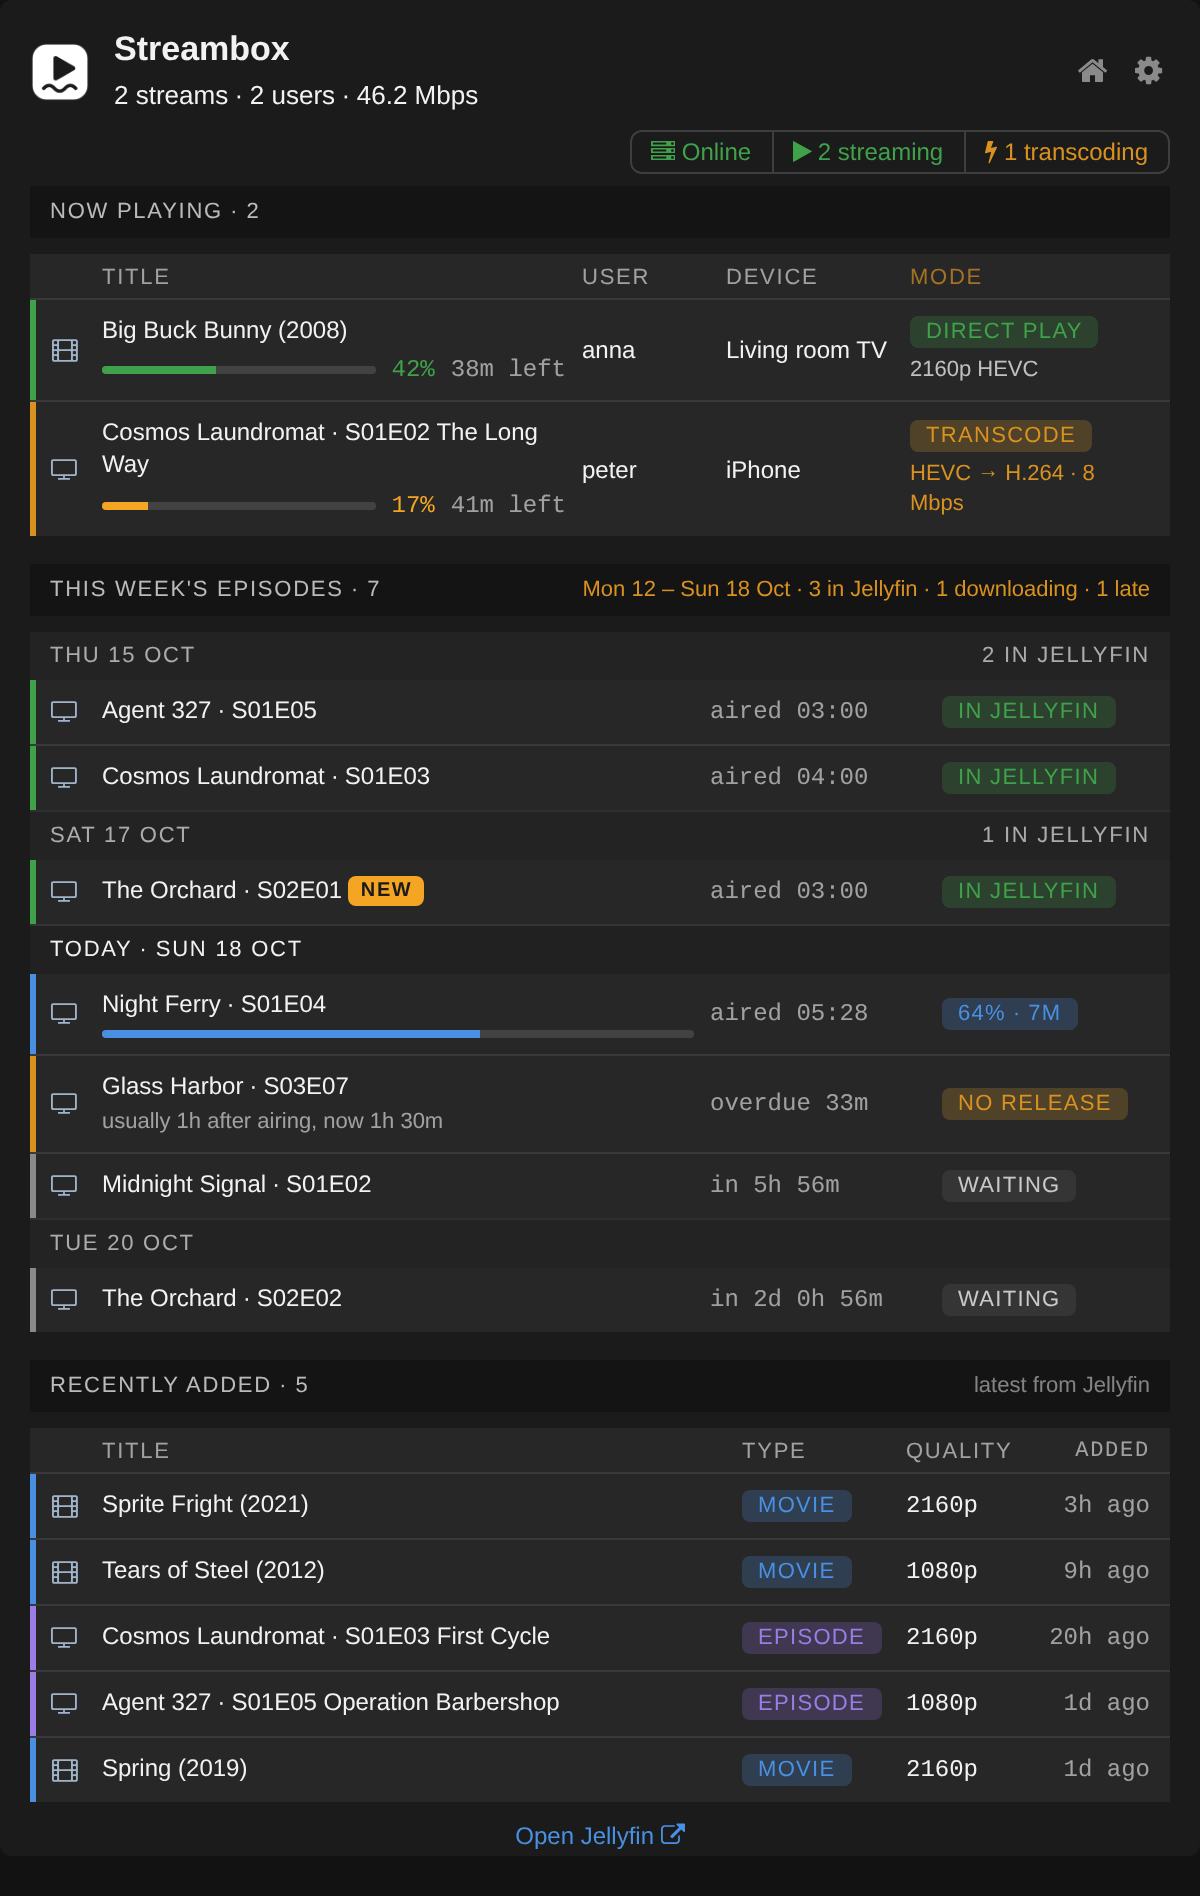
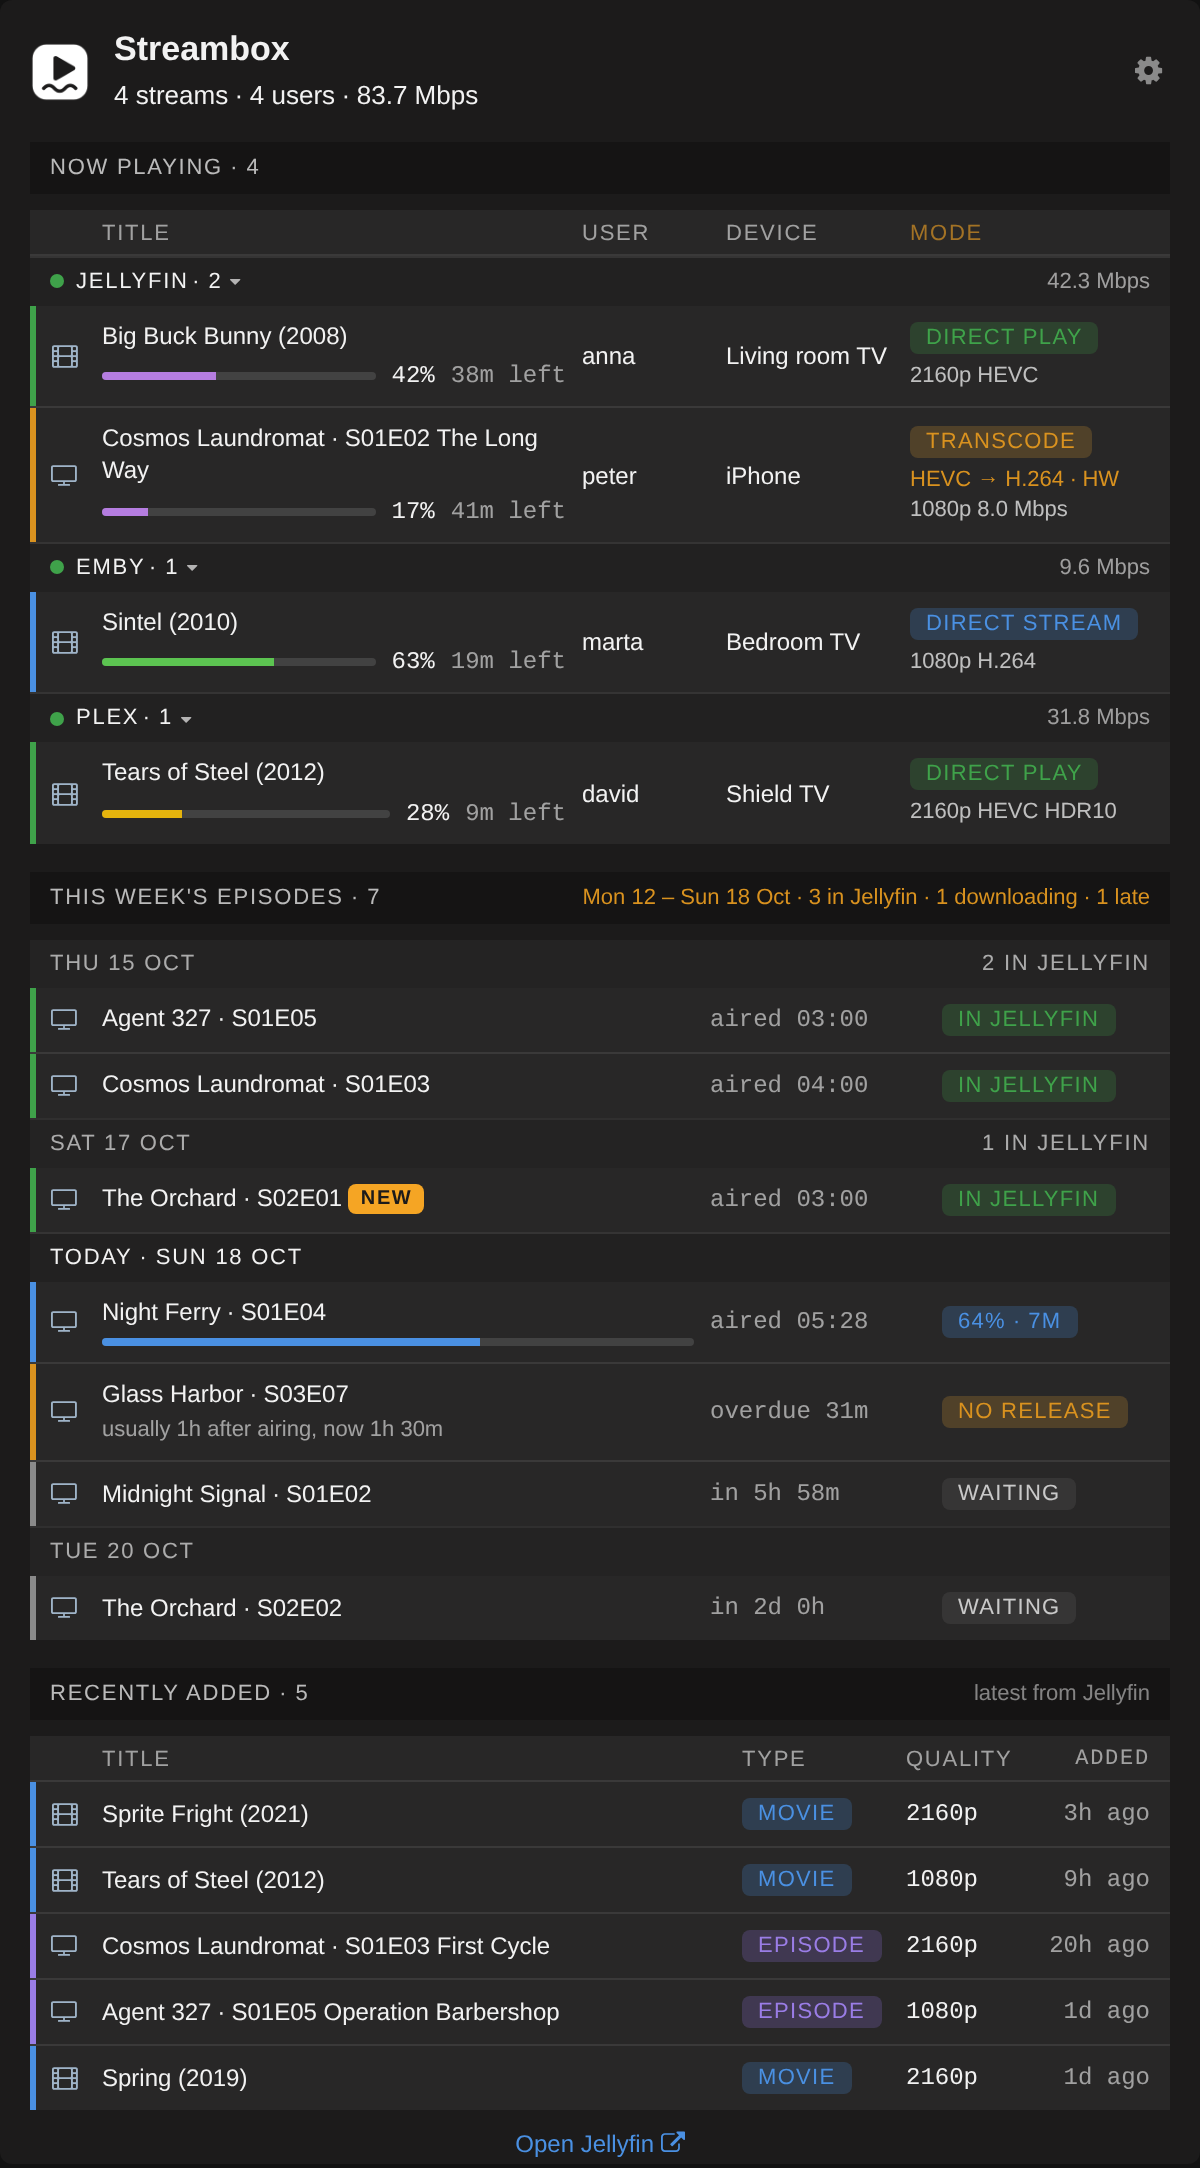
README: Streambox with Emby and Plex, router part on the Sysbox screenshot
Screenshots re-rendered: the Sysbox tile with the Router part, the Streambox
tile with one Now playing section per server (Jellyfin, Emby, Plex).
shot.js takes MT_NOW so the This week times match the mock data.

Claude-Session: https://claude.ai/code/session_012ZhGU9Uvzabx8CiMNwiwgM

diff --git a/tools/screenshots/shot.js b/tools/screenshots/shot.js
@@ -29,6 +29,8 @@ i.f32{display:inline-block;width:32px;height:32px}
      if(/\.png$/.test(f)){return r.fulfill({status:404,body:''});}
      return r.fulfill({contentType:'application/json',body:'{"ok":false}'});
    } return r.continue();});
+ // MT_NOW=<unix s>: the page's clock starts there, so the ago and countdown texts match the times in the mocks
+ if(process.env.MT_NOW){await pg.addInitScript(n=>{const D=Date,o=n*1000-D.now();class F extends D{constructor(...a){a.length?super(...a):super(D.now()+o);}static now(){return D.now()+o;}}window.Date=F;},+process.env.MT_NOW);}
  pg.on('pageerror',e=>console.log('PAGEERR',e.message));
  await pg.goto('http://nas.local/Dashboard'); await pg.waitForTimeout(4000);
  for(const c of (process.env.CLICK||'').split('|').filter(Boolean)){const e=await pg.$(c); if(e){await e.click(); await pg.waitForTimeout(400);} else console.log('noclick',c);}

diff --git a/README.md b/README.md
@@ -1,6 +1,6 @@
 # unraid-mediaserver-tools
 
-Dashboard plugins for **Unraid 7** (tested on **7.3.4**, see [Compatibility](#compatibility)) that help you run a media server (Jellyfin, qBittorrent, Radarr, Sonarr, Prowlarr, autobrr). They share one native-looking style, replace or extend the stock dashboard tiles, and need no extra containers.
+Dashboard plugins for **Unraid 7** (tested on **7.3.4**, see [Compatibility](#compatibility)) that help you run a media server (Jellyfin, Emby, Plex, qBittorrent, Radarr, Sonarr, Prowlarr, autobrr). They share one native-looking style, replace or extend the stock dashboard tiles, and need no extra containers.
 
 **The rule of every tool here: nothing is added, replaced or deleted without your click.** The tools scan and report by themselves; every step that changes something is a button with a confirmation.
 
@@ -12,7 +12,7 @@ Dashboard plugins for **Unraid 7** (tested on **7.3.4**, see [Compatibility](#co
 |---|---|---|
 | [**Sysbox**](#sysbox) | System and Processor tiles | RAM, storage, CPU and GPU, wall power, network, router, containers; Network, Update manager, Snapshots, Safe shutdown pages |
 | [**Diskbox**](#diskbox) | Disk Viewer tile | Array, parity, pools, unassigned disks, SMART, preclear and clearing progress; **Balance** page: balance, empty or remove disks |
-| [**Streambox**](#streambox) | new Jellyfin tile | Now playing, this week's episodes, recently added, Discord announcements |
+| [**Streambox**](#streambox) | new media server tile | Now playing on Jellyfin, Emby and Plex, this week's episodes, recently added, Discord announcements |
 | [**Seedbox**](#seedbox) | new qBittorrent tile and *Seedbox Tools* page | Find my torrent, Shape up, Season Repacker, autobrr watch, Discord bot |
 | **Monitor** | Settings, Utilities, Monitor | The tiles in one column for the phone; reorder or hide them, add the page to the iPhone home screen |
 
@@ -53,7 +53,7 @@ A title is a downloads folder together with its hardlinked media files; they are
 
 <img src="screenshots/streambox.png" alt="Streambox" width="600">
 
-Jellyfin at a glance: who is watching right now (direct play, direct stream or transcode, with progress), GPU and CPU load with the power draw, **this week's episodes** from the Sonarr calendar (air time, the usual delay until the release shows up, countdowns), and what was added recently. It can announce new movies and seasons in Discord, send a weekly summary, and put the week's episodes on Jellyfin's home page. In Jellyfin's web client it also adds IMDb ratings that link to IMDb (from IMDb's public daily ratings file, no API key), a Watched page per user and a "Watched too" switch on the home page.
+Your media servers at a glance: who is watching right now on **Jellyfin, Emby and Plex**, one section per server with its state and bandwidth (direct play, direct stream or transcode with HW or SW and what the client gets, progress, the programme that is on for live TV, nicknames for users), GPU and CPU load with the power draw, **this week's episodes** from the Sonarr calendar (air time, the usual delay until the release shows up, countdowns), and what was added recently (from Jellyfin). Emby and Plex are optional, each with its own block and Test button in the settings; the Plex token is read from Plex's own config folder. It can announce new movies and seasons in Discord, send a weekly summary, and put the week's episodes on Jellyfin's home page. In Jellyfin's web client it also adds IMDb ratings that link to IMDb (from IMDb's public daily ratings file, no API key), a Watched page per user and a "Watched too" switch on the home page.
 
 ## Seedbox
 
@@ -95,11 +95,11 @@ What each part builds on, and what has **not** been tried yet. Reports from othe
 | All plugins | Unraid 7, the stock dashboard | Unraid 6; used every day only with the black (dark) theme |
 | Sysbox, Streambox GPU rows | Intel iGPU (`intel_gpu_top`) | NVIDIA and AMD GPUs are not read |
 | Sysbox wall power | Shelly plug with the Gen2+ RPC API (`/rpc/Switch.GetStatus`), no password on the plug | Shelly Gen1 devices, other smart plugs |
-| Sysbox router part | SSH on the router with a key (dropbear or OpenSSH honouring `command=`), a POSIX shell; ASUS nvram, Broadcom `wl`, vnstat, Skynet, connmon only where present | built and tested against an emulated Asuswrt-Merlin RT-BE88U; not yet tried on a live router, OpenWrt or Keenetic |
+| Sysbox router part | SSH on the router with a key (dropbear or OpenSSH honouring `command=`), a POSIX shell; ASUS nvram, Broadcom `wl`, vnstat, Skynet, connmon only where present | in daily use on an Asuswrt-Merlin RT-BE88U (3006.102.x) with AiMesh nodes; not yet tried on OpenWrt or Keenetic |
 | Sysbox Update manager | Docker; release notes from GitHub without a token (GitHub allows about 60 requests an hour) | Images built locally or kept in a private registry show *Not checkable*; release notes are found for linuxserver images and apps that publish GitHub releases |
 | Diskbox Balance | downloads and media in folders you set, hardlinked on the same disk (`rsync -aH` keeps the links); tested on XFS array disks | Btrfs or ZFS array disks, arrays with a single parity disk; files hardlinked outside the set folders are left in place |
 | Seedbox Tools | qBittorrent WebUI, Radarr and Sonarr (API v3), Prowlarr; tested with the downloads hardlinked into the library | Other download clients; torrents are matched to Radarr/Sonarr by exact video file sizes, so re-encoded or remuxed library files are not matched; music (Lidarr) is not matched |
-| Streambox | Jellyfin API key; Sonarr for this week's episodes | Plex and Emby |
+| Streambox | Jellyfin API key; optional Emby API key and Plex (token read from its config folder); Sonarr for this week's episodes | Recently added, announcements and the Jellyfin web extras come from Jellyfin only; Emby and Plex add their streams to Now playing |
 | Sysbox Claude Guard, Ask Claude, header button | Claude Code signed in, in a container named `claude` (`docker/claude-code`); uses your Claude plan | Other ways of running Claude |
 | Discord | a webhook per plugin; for Seedbox reactions a bot token | |
 
